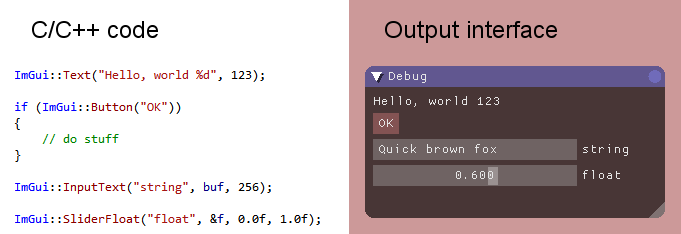
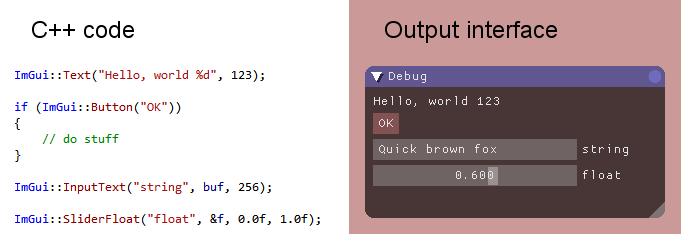
Update README.md
Clarifying C++
Added item in todo list

Changed region(s): [[0.0617, 0.0897, 0.2467, 0.1795]]

diff --git a/imgui.cpp b/imgui.cpp
@@ -144,6 +144,7 @@
  - filters: handle wildcards (with implicit leading/trailing *), regexps
  - shortcuts: add a shortcut api, e.g. parse "&Save" and/or "Save (CTRL+S)", pass in to widgets or provide simple ways to use (button=activate, input=focus)
  - keyboard: full keyboard navigation and focus
+ - clipboard: add a default "local" implementation of clipboard functions (user will only need to override them to connect to OS clipboard)
  - misc: not thread-safe
  - optimisation/render: use indexed rendering
  - optimisation/render: move clip-rect to vertex data? would allow merging all commands

diff --git a/README.md b/README.md
@@ -1,7 +1,7 @@
 ImGui
 =====
 
-ImGui is a bloat-free graphical user interface library for C/C++. It is portable, renderer agnostic and carries minimal amount of dependencies (only 3 files are needed). It is based on an "immediate" graphical user interface paradigm which allows you to build simple user interfaces with ease.
+ImGui is a bloat-free graphical user interface library for C++. It is portable, renderer agnostic and carries minimal amount of dependencies (only 3 files are needed). It is based on an "immediate" graphical user interface paradigm which allows you to build simple user interfaces with ease.
 
 ImGui is designed to allow programmers to create "content creation" or "debug" tools (as opposed to tools for the average end-user). It favors simplicity and thus lacks certain features normally found in more high-level libraries, such as string localisation.
 
